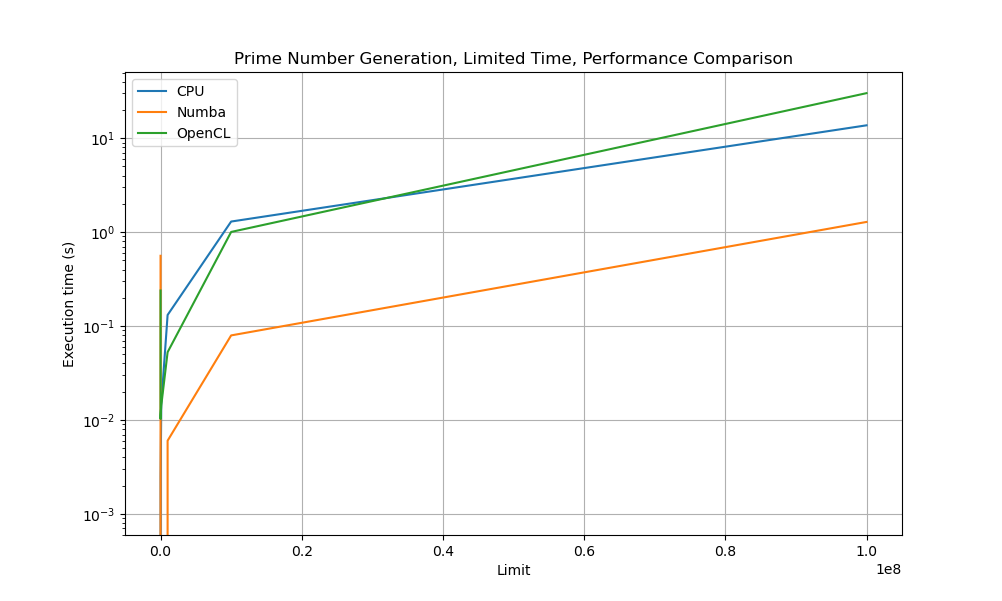
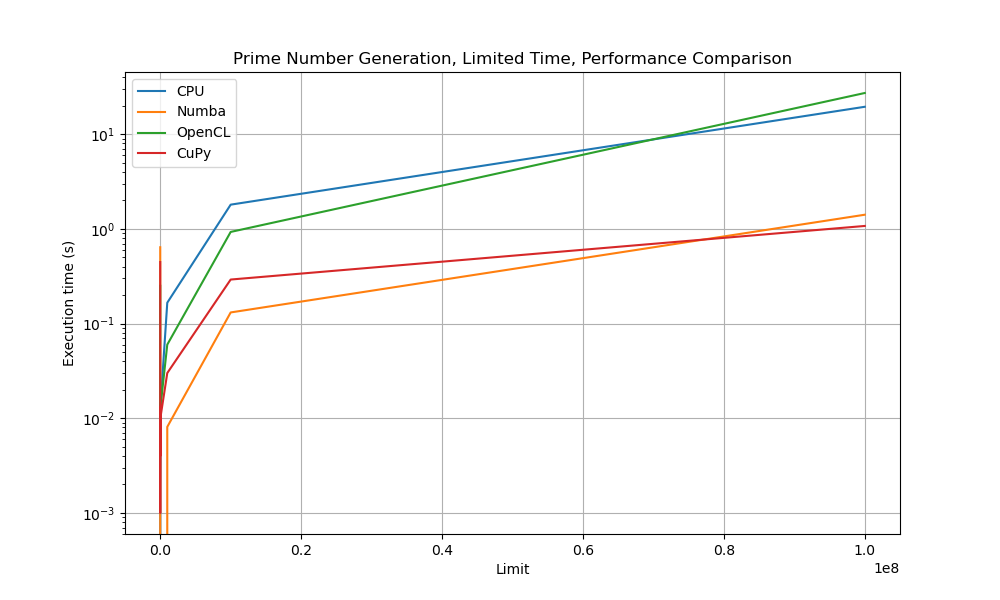
primes cupy

diff --git a/misc/prime_numbers_time.py b/misc/prime_numbers_time.py
@@ -9,7 +9,7 @@ import os
 from utils import *
 
 # OpenCL context version, set to device
-PYOPENCL_CTX_VERSION = '0'
+PYOPENCL_CTX_VERSION = '1'
 
 def primes_cpu(max_time):
     """Generate prime numbers within a specified period of time using CPU"""
@@ -114,22 +114,32 @@ def primes_opencl(max_time, batch_size=1000):
         
     return primes
 
-def primes_cupy(max_time, batch_size=1000):
+def primes_cupy(max_time, batch_size=1000000):
     """Generate prime numbers within a specified period of time using CuPy"""
     start_time = time.time()
     
-    # CuPy kernel to check if numbers are prime
+    # Optimized CUDA kernel with shared memory and better prime checking algorithm
     kernel_code = '''
     extern "C" __global__
-    void is_prime(const int *numbers, int *results, int size) {
+    void is_prime(const unsigned int *numbers, unsigned int *results, int size) {
         int idx = blockDim.x * blockIdx.x + threadIdx.x;
+        
         if (idx < size) {
-            int num = numbers[idx];
-            int is_prime = 1;
+            unsigned int num = numbers[idx];
+            unsigned int is_prime = 1;
+            
+            // Quick checks for even numbers and small primes
             if (num < 2) {
                 is_prime = 0;
+            } else if (num == 2) {
+                is_prime = 1;
+            } else if ((num & 1) == 0) {  // Bitwise check for even numbers
+                is_prime = 0;
             } else {
-                for (int i = 2; i <= sqrtf((float)num); ++i) {
+                unsigned int sqrt_num = (unsigned int)(sqrtf((float)num) + 0.5f);
+                
+                // Only check odd numbers up to sqrt(num)
+                for (unsigned int i = 3; i <= sqrt_num; i += 2) {
                     if (num % i == 0) {
                         is_prime = 0;
                         break;
@@ -141,37 +151,46 @@ def primes_cupy(max_time, batch_size=1000):
     }
     '''
     
-    # Compile the kernel
-    is_prime_kernel = cp.RawKernel(kernel_code, 'is_prime')
+    # Compile the kernel with maximum optimization flags
+    module = cp.RawModule(code=kernel_code, options=('--use_fast_math',))
+    is_prime_kernel = module.get_function('is_prime')
     
-    # Initialize variables
+    # Initialize variables using pinned memory for faster transfers
     primes = []
     num = 2
     
+    # Pre-calculate grid dimensions
+    threads_per_block = 256  # Optimal for most GPUs
+    blocks_per_grid = (batch_size + (threads_per_block - 1)) // threads_per_block
+    
+    # Stream for asynchronous operations
+    stream = cp.cuda.Stream()
+    
     while time.time() - start_time < max_time:
-        # Create number batch to check
-        numbers = cp.arange(num, num + batch_size, dtype=cp.int32)
-        results = cp.zeros_like(numbers, dtype=cp.int32)
-        
-        # Execute kernel
-        threads_per_block = 256
-        blocks_per_grid = (batch_size + (threads_per_block - 1)) // threads_per_block
-        is_prime_kernel((blocks_per_grid,), (threads_per_block,), (numbers, results, batch_size))
-        
-        # Retrieve results
-        cp.cuda.stream.get_current_stream().synchronize()
-        
-        # Check time limit
-        if time.time() - start_time >= max_time:
-            break
-        
-        # Add primes to the list
-        primes.extend(cp.asnumpy(numbers[results == 1]))
-        
-        # Update num for next batch
-        num += batch_size
-        
-        
+        with stream:
+            # Create number batch to check using unsigned integers
+            numbers = cp.arange(num, num + batch_size, dtype=cp.uint32)
+            results = cp.zeros_like(numbers, dtype=cp.uint32)
+            
+            # Execute kernel
+            is_prime_kernel(
+                (blocks_per_grid,), 
+                (threads_per_block,),
+                (numbers, results, batch_size)
+            )
+            
+            # Use CuPy's optimized operations for filtering
+            prime_mask = results == 1
+            current_primes = cp.asnumpy(numbers[prime_mask])
+            primes.extend(current_primes)
+            
+            # Update num for next batch
+            num += batch_size
+            
+            # Check time limit
+            if time.time() - start_time >= max_time:
+                break
+    
     return primes
 
 def main():
@@ -246,18 +265,16 @@ def plot():
     plt.show()
         
         
-        
-    
 if __name__ == "__main__":
-    # main()
-    plot()
+    main()
+    # plot()
     
-
 
 # OUTPUT
 # Generating prime numbers within 30 seconds.
 # ------------------------------------------------------------
-# CPU    produced 317,130    prime numbers in 30 seconds
-# Numba  produced 2,864,911  prime numbers in 30 seconds
-# OpenCL produced 5,653,023  prime numbers in 30 seconds
+# CPU    produced 274,449    prime numbers in 30 seconds
+# Numba  produced 1,513,139  prime numbers in 30 seconds
+# OpenCL produced 5,978,516  prime numbers in 30 seconds
+# CuPy   produced 7,378,188  prime numbers in 30 seconds
 # All methods produced the same results!

diff --git a/misc/prime_numbers_lim.py b/misc/prime_numbers_lim.py
@@ -1,4 +1,3 @@
-from calendar import c
 import time
 import numpy as np
 import cupy as cp
@@ -10,7 +9,7 @@ import os
 from utils import *
 
 # OpenCL context version, set to device
-PYOPENCL_CTX_VERSION = '0'
+PYOPENCL_CTX_VERSION = '1'
 
 @timing_decorator
 def primes_cpu(limit):
@@ -94,20 +93,16 @@ def primes_opencl(limit):
 
 @timing_decorator
 def primes_cupy(limit):
-    """Generate prime numbers up to a given limit using CuPy"""
-    primes = cp.zeros(limit + 1, dtype=cp.int32)
+    """Generate prime numbers up to a given limit using CuPy with the Sieve of Eratosthenes."""
+    primes = cp.ones(limit + 1, dtype=cp.bool_)  # Initialize all numbers as prime
+    primes[:2] = 0  # Mark 0 and 1 as non-prime
 
-    @cp.fuse()
-    def is_prime(num):
-        if num < 2:
-            return 0
-        for i in range(2, int(cp.sqrt(num)) + 1):
-            if num % i == 0:
-                return 0
-        return num
+    for num in range(2, int(cp.sqrt(limit)) + 1):
+        if primes[num]:  # If num is still marked prime
+            primes[num * num : limit + 1 : num] = 0  # Mark multiples as non-prime
 
-    primes = is_prime(cp.arange(limit + 1))
-    return cp.asnumpy(primes[primes > 0])
+    return cp.asnumpy(cp.nonzero(primes)[0])  # Extract prime numbers
+
 
 def main():
     # Parameters
@@ -225,3 +220,19 @@ if __name__ == "__main__":
 #         if is_prime:
 #             primes.append(num)
 #     return primes
+
+
+# @timing_decorator
+# def primes_cupy(limit):
+#     """Generate prime numbers up to a given limit using CuPy (GPU acceleration)."""
+#     arr = cp.arange(limit + 1)
+
+#     # Start with all numbers marked as prime (1 = prime, 0 = not prime)
+#     primes = cp.ones(limit + 1, dtype=cp.bool_)
+#     primes[:2] = 0  # Mark 0 and 1 as non-prime
+
+#     for num in range(2, int(cp.sqrt(limit)) + 1):
+#         if primes[num]:  # If num is still marked prime
+#             primes[num * num : limit + 1 : num] = 0  # Mark multiples as non-prime
+
+#     return cp.asnumpy(arr[primes])  # Return only the prime numbers

diff --git a/misc/utils.py b/misc/utils.py
@@ -4,7 +4,7 @@ import os
 import sys
 
 # OpenCL context version, set to device
-PYOPENCL_CTX_VERSION = '0'
+PYOPENCL_CTX_VERSION = '1'
 
 def timing_decorator(func):
     def wrapper(*args, **kwargs):
@@ -64,7 +64,7 @@ def check_cupy():
     try:
         suppress_output()
         import cupy as cp
-        cp.cuda.Device(0).make_context()
+        cp.cuda.Device(0)
         enable_output()
         return True
     except:
